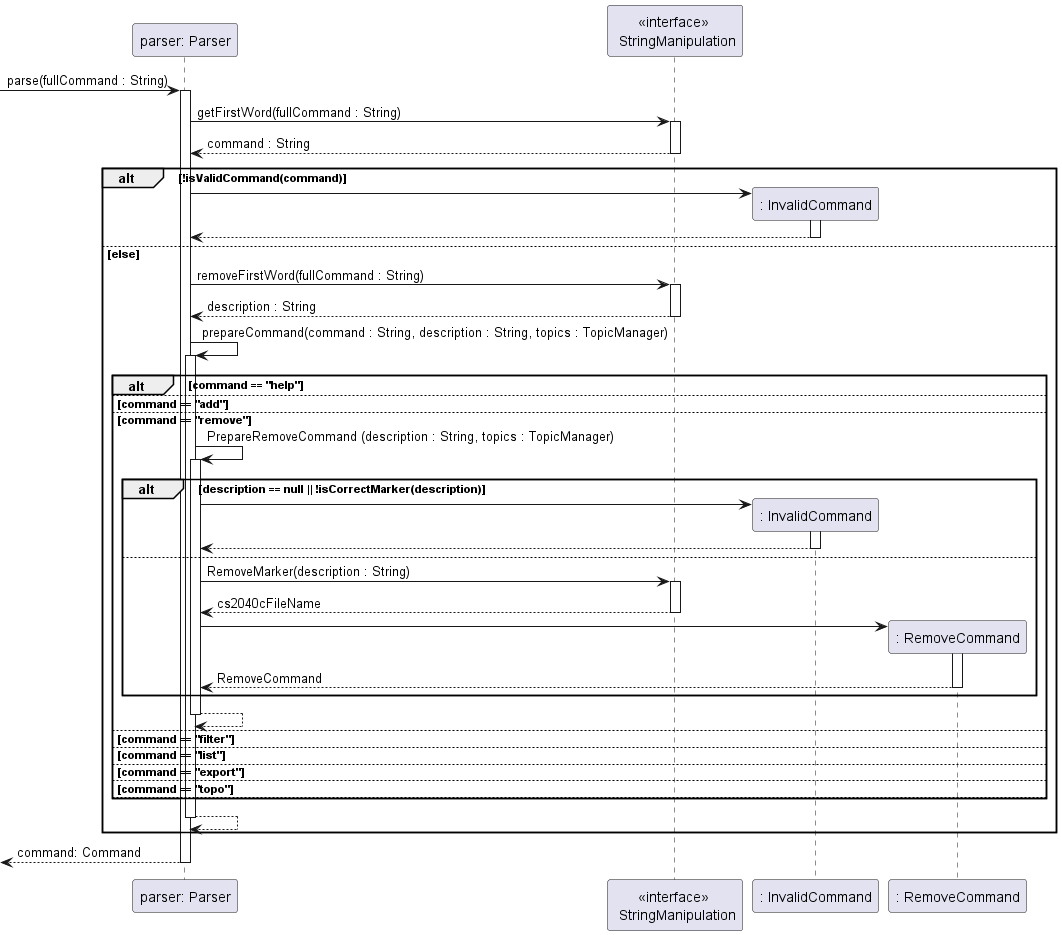
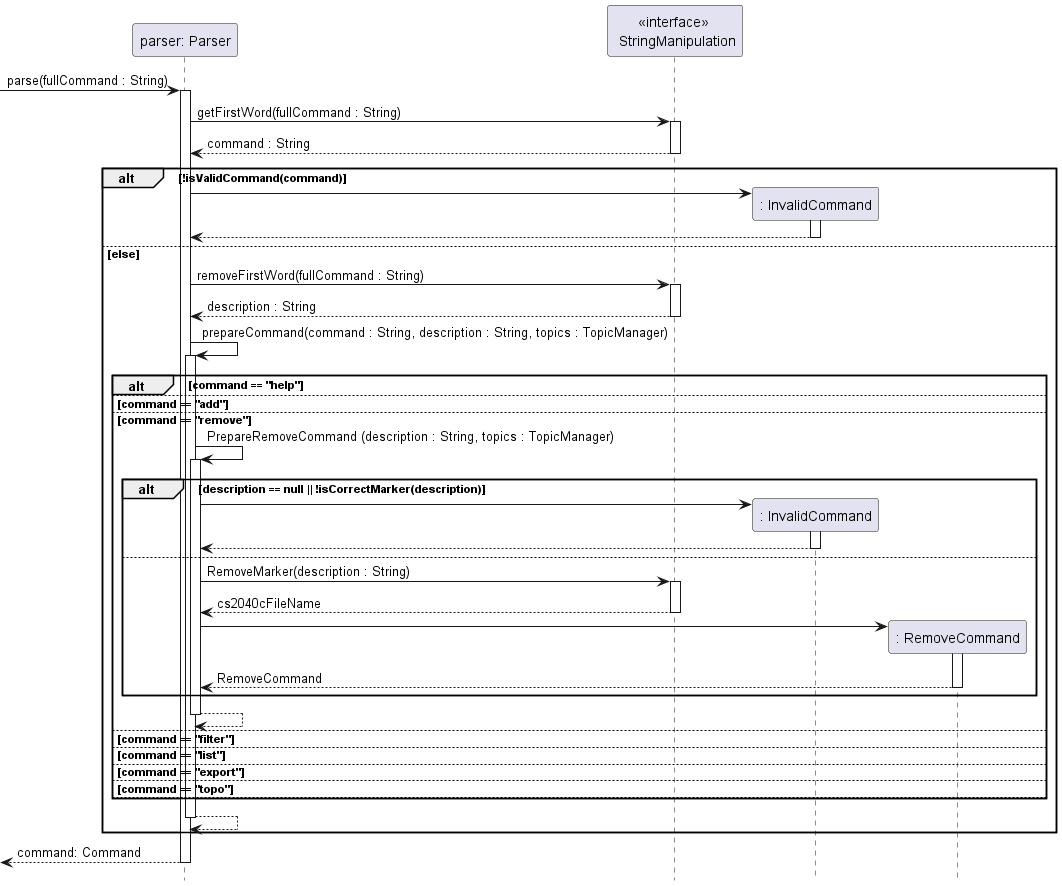
Update sequence diagrams to remove footbox

diff --git a/docs/DeveloperGuide.md b/docs/DeveloperGuide.md
@@ -78,6 +78,9 @@ The **_Sequence Diagram_** below shows a high level overview of how the componen
 
 ![](sequence-diagrams/diagrams/Architecture.png)
 
+> **! Note**: The lifeline for `CLIAlgo`, `Ui`, `Parser` and `Command` should end at the destroy marker (X) but due to 
+> limitation of PlantUML, the lifeline reaches the end of the diagram.
+
 <p align="right">(<a href="#top">back to top</a>)</p>
 <div id="design-ui"></div>
 
